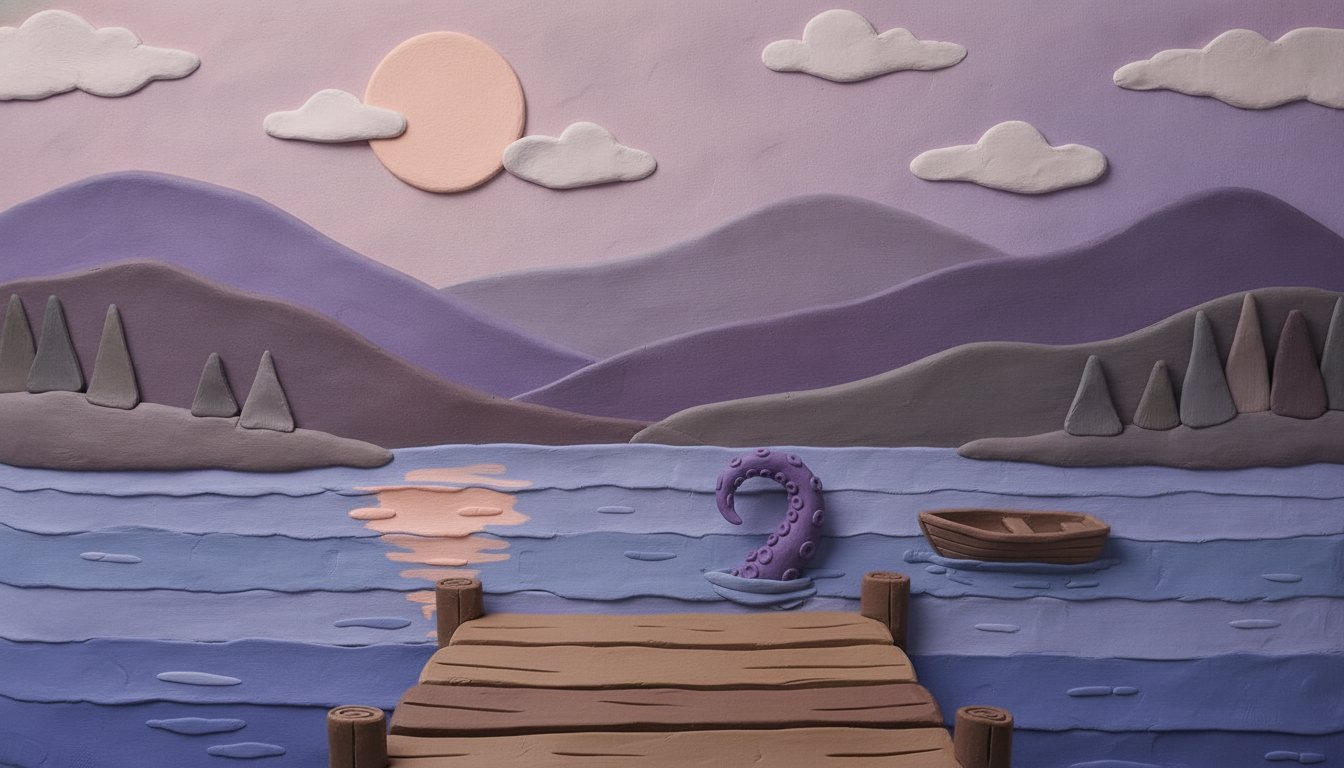
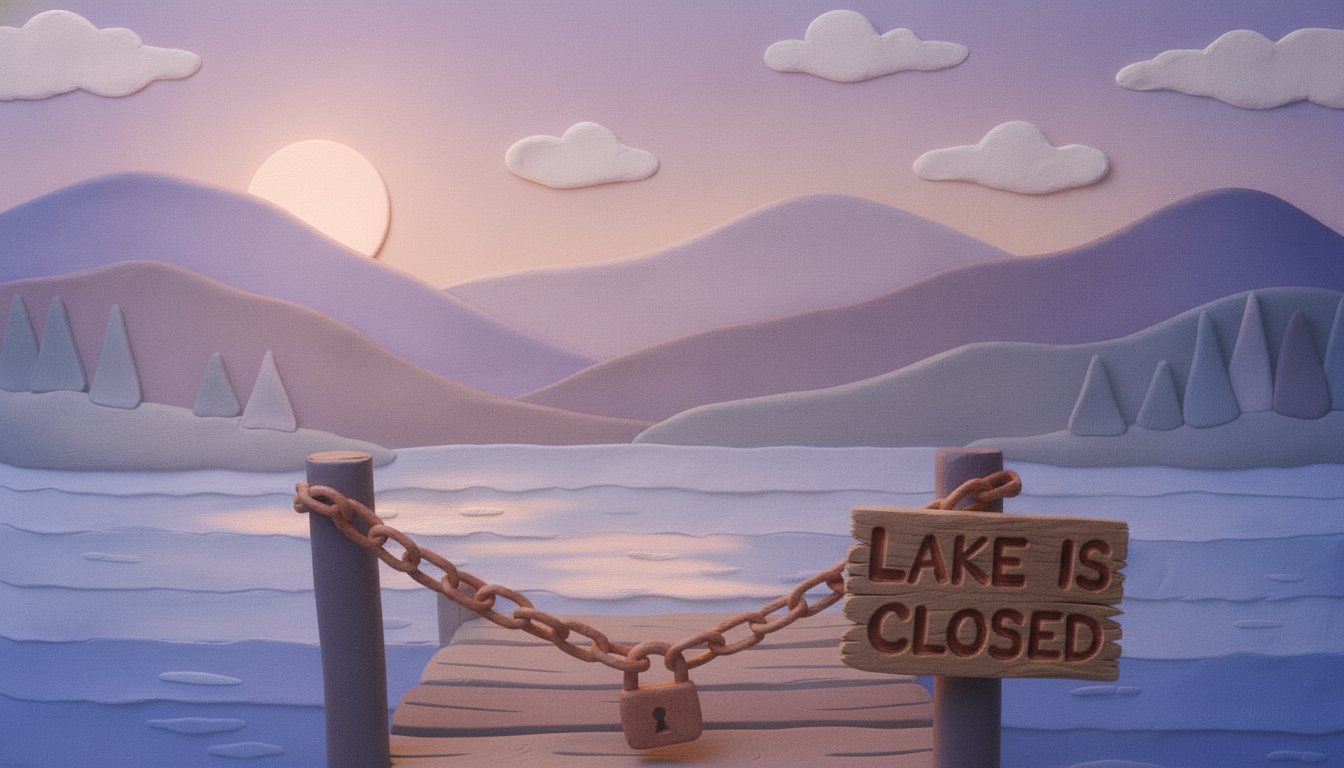
Dock: lake is closed sign and chain, tentacle removed, countdown to Aug 13 2027
Claude-Session: https://claude.ai/code/session_017UCt1yh6wM11RSMuh2VTku

diff --git a/site/world/index.html b/site/world/index.html
@@ -117,9 +117,6 @@ button{font:inherit;color:inherit}
 @media (min-width:900px) and (min-aspect-ratio:4/3){.hint{display:none}}
 @media (prefers-reduced-motion:reduce){.scene,.scene.on{transition:opacity .3s}.scene.zoom{transform:none}.hot .ring,.fog{animation:none}}
 </style>
-</head>
-<body>
-
 
 <div class="bar">
   <img src="img/title.png" alt="Claysons" width="720" height="198">
@@ -157,10 +154,10 @@ button{font:inherit;color:inherit}
     </section>
 
     <section class="scene" id="s-dock" data-crumb="The dock" data-back="inside">
-      <img class="bg" id="dockImg" src="img/dock-night.jpg" alt="Layered clay lake view from the dock: stacked mountains, puffy clay clouds, a tentacle rising from the water beside a rowboat" width="1344" height="768">
+      <img class="bg" id="dockImg" src="img/dock-night.jpg" alt="Layered clay lake view from the dock: stacked mountains, puffy clay clouds, the dock chained shut with a padlock and a clay sign reading LAKE IS CLOSED" width="1344" height="768">
       <div class="clock" id="dockClock" aria-live="polite"></div>
       <div class="fog"></div>
-      <button class="hot" style="left:57.5%;top:58%;--glow:#9fc6ff" data-card="dock" aria-label="Look out over the lake"><span class="ring"></span><span class="tag">Look out</span></button>
+      <button class="hot" style="left:74%;top:60%;--glow:#9fc6ff" data-card="dock" aria-label="Read the sign"><span class="ring"></span><span class="tag">Read the sign</span></button>
     </section>
 
   </div>
@@ -204,7 +201,9 @@ button{font:inherit;color:inherit}
 <div class="card off" id="c-dock" role="dialog" aria-labelledby="dh" style="--glow:#9fc6ff">
   <div class="eyebrow">The dock</div>
   <h2 id="dh">The lake is very still tonight</h2>
-  <p id="dockP">The moon is up, and 1,300 Claysons are somewhere out in the trees. Something out past the rowboat keeps breaking the surface.</p>
+  <p id="dockP"></p>
+  <p id="dockLore" style="margin-top:.6em">The lake is closed. The Clayson is out for the holidays, and the chain keeps him from slipping back to his rest. After the holidays he sinks to the bottom, and he won&rsquo;t surface again until Friday, August 13, 2027.</p>
+  <p id="dockCount" class="eyebrow" style="margin-top:.6em"></p>
   <div class="row">
     <a class="btn red" href="https://opensea.io/collection/claysons" target="_blank" rel="noopener" style="text-decoration:none">See the Claysons</a>
     <a class="btn" href="https://www.instagram.com/georgexmeta/" target="_blank" rel="noopener" style="text-decoration:none">@georgexmeta</a>
@@ -320,10 +319,10 @@ button{font:inherit;color:inherit}
   }
   function fmt(m){ m=Math.round(m); var h=Math.floor(m/60)%24, mm=m%60, ap=h<12?'AM':'PM', h12=h%12||12; return h12+':'+String(mm).padStart(2,'0')+' '+ap }
   var DOCK_TEXT={
-    dawn:['The sun is coming up over the lake','First light on the water. The fog is lifting, and 1,300 Claysons are waking up somewhere in the trees.'],
-    day:['Bright day on the lake','The water is calm and the sun is high. Something out past the rowboat keeps breaking the surface anyway.'],
-    dusk:['The sun is going down','The sky is burning out behind the mountains. Whatever lives in this lake likes the dark.'],
-    night:['The lake is very still tonight','The moon is up, and 1,300 Claysons are somewhere out in the trees. Something out past the rowboat keeps breaking the surface.']
+    dawn:['The sun is coming up over the lake','First light on the water. The fog is lifting, and the chain across the dock is wet with dew.'],
+    day:['Bright day on the lake','The water is calm and the sun is high. Nobody swims here. The padlock makes sure of it.'],
+    dusk:['The sun is going down','The sky is burning out behind the mountains. Somewhere under that water is the bed he can\u2019t get back to.'],
+    night:['The lake is very still tonight','The moon is up, the dock is chained, and 1,300 Claysons are somewhere out in the trees.']
   };
   function dockPhase(){
     var d=new Date(), now=d.getHours()*60+d.getMinutes(), t=sunTimes(d), ph;
@@ -336,12 +335,11 @@ button{font:inherit;color:inherit}
     var after=now>=t.set, before=now<t.rise;
     $('dockClock').innerHTML=fmt(now)+'<small>'+(before?'Sunrise at '+fmt(t.rise):after?'Sun set at '+fmt(t.set):'Sunset at '+fmt(t.set))+'</small>';
     $('dh').textContent=DOCK_TEXT[ph][0]; $('dockP').textContent=DOCK_TEXT[ph][1];
+    var days=Math.ceil((new Date(2027,7,13)-d)/864e5);
+    $('dockCount').textContent=days>1?'He surfaces in '+days+' days':days===1?'He surfaces tomorrow':'He has surfaced';
   }
   dockPhase(); setInterval(dockPhase,60000);
 
   show(location.hash.slice(1)||'exterior');
 })();
 </script>
-
-</body>
-</html>

diff --git a/site/world/page.html b/site/world/page.html
@@ -149,10 +149,10 @@ button{font:inherit;color:inherit}
     </section>
 
     <section class="scene" id="s-dock" data-crumb="The dock" data-back="inside">
-      <img class="bg" id="dockImg" src="img/dock-night.jpg" alt="Layered clay lake view from the dock: stacked mountains, puffy clay clouds, a tentacle rising from the water beside a rowboat" width="1344" height="768">
+      <img class="bg" id="dockImg" src="img/dock-night.jpg" alt="Layered clay lake view from the dock: stacked mountains, puffy clay clouds, the dock chained shut with a padlock and a clay sign reading LAKE IS CLOSED" width="1344" height="768">
       <div class="clock" id="dockClock" aria-live="polite"></div>
       <div class="fog"></div>
-      <button class="hot" style="left:57.5%;top:58%;--glow:#9fc6ff" data-card="dock" aria-label="Look out over the lake"><span class="ring"></span><span class="tag">Look out</span></button>
+      <button class="hot" style="left:74%;top:60%;--glow:#9fc6ff" data-card="dock" aria-label="Read the sign"><span class="ring"></span><span class="tag">Read the sign</span></button>
     </section>
 
   </div>
@@ -196,7 +196,9 @@ button{font:inherit;color:inherit}
 <div class="card off" id="c-dock" role="dialog" aria-labelledby="dh" style="--glow:#9fc6ff">
   <div class="eyebrow">The dock</div>
   <h2 id="dh">The lake is very still tonight</h2>
-  <p id="dockP">The moon is up, and 1,300 Claysons are somewhere out in the trees. Something out past the rowboat keeps breaking the surface.</p>
+  <p id="dockP"></p>
+  <p id="dockLore" style="margin-top:.6em">The lake is closed. The Clayson is out for the holidays, and the chain keeps him from slipping back to his rest. After the holidays he sinks to the bottom, and he won&rsquo;t surface again until Friday, August 13, 2027.</p>
+  <p id="dockCount" class="eyebrow" style="margin-top:.6em"></p>
   <div class="row">
     <a class="btn red" href="https://opensea.io/collection/claysons" target="_blank" rel="noopener" style="text-decoration:none">See the Claysons</a>
     <a class="btn" href="https://www.instagram.com/georgexmeta/" target="_blank" rel="noopener" style="text-decoration:none">@georgexmeta</a>
@@ -312,10 +314,10 @@ button{font:inherit;color:inherit}
   }
   function fmt(m){ m=Math.round(m); var h=Math.floor(m/60)%24, mm=m%60, ap=h<12?'AM':'PM', h12=h%12||12; return h12+':'+String(mm).padStart(2,'0')+' '+ap }
   var DOCK_TEXT={
-    dawn:['The sun is coming up over the lake','First light on the water. The fog is lifting, and 1,300 Claysons are waking up somewhere in the trees.'],
-    day:['Bright day on the lake','The water is calm and the sun is high. Something out past the rowboat keeps breaking the surface anyway.'],
-    dusk:['The sun is going down','The sky is burning out behind the mountains. Whatever lives in this lake likes the dark.'],
-    night:['The lake is very still tonight','The moon is up, and 1,300 Claysons are somewhere out in the trees. Something out past the rowboat keeps breaking the surface.']
+    dawn:['The sun is coming up over the lake','First light on the water. The fog is lifting, and the chain across the dock is wet with dew.'],
+    day:['Bright day on the lake','The water is calm and the sun is high. Nobody swims here. The padlock makes sure of it.'],
+    dusk:['The sun is going down','The sky is burning out behind the mountains. Somewhere under that water is the bed he can\u2019t get back to.'],
+    night:['The lake is very still tonight','The moon is up, the dock is chained, and 1,300 Claysons are somewhere out in the trees.']
   };
   function dockPhase(){
     var d=new Date(), now=d.getHours()*60+d.getMinutes(), t=sunTimes(d), ph;
@@ -328,6 +330,8 @@ button{font:inherit;color:inherit}
     var after=now>=t.set, before=now<t.rise;
     $('dockClock').innerHTML=fmt(now)+'<small>'+(before?'Sunrise at '+fmt(t.rise):after?'Sun set at '+fmt(t.set):'Sunset at '+fmt(t.set))+'</small>';
     $('dh').textContent=DOCK_TEXT[ph][0]; $('dockP').textContent=DOCK_TEXT[ph][1];
+    var days=Math.ceil((new Date(2027,7,13)-d)/864e5);
+    $('dockCount').textContent=days>1?'He surfaces in '+days+' days':days===1?'He surfaces tomorrow':'He has surfaced';
   }
   dockPhase(); setInterval(dockPhase,60000);
 

diff --git a/site/tools/gen_dock_times.py b/site/tools/gen_dock_times.py
@@ -18,12 +18,16 @@ PHASES = {
  "moonfix": "keep it night exactly as it is. Change ONLY the moon: make it a flat, matte pressed-plasticine disc like the little clay stars, "
             "pale cream clay with a few thumb-pressed craters and fingerprint texture, a soft raised edge and a small drop shadow on the sky layer. "
             "NO glow, NO halo, NO bloom, NO light rays around it. Keep the moonlight reflection on the water as clay dabs.",
+ "closed": "keep the time of day and lighting exactly as they are. Change ONLY this: REMOVE the purple tentacle completely (just calm clay water "
+           "there). At the end of the dock, a rusty clay chain hangs across between the two front posts with a padlock, and a crooked hand-made "
+           "wooden clay sign is nailed to the right post, with the words LAKE IS CLOSED pressed into it in big chunky clay capital letters, "
+           "spelled exactly L-A-K-E  I-S  C-L-O-S-E-D, nothing else written.",
  "dusk": "sunset dusk: a big orange-red clay sun half sunk behind the mountain layers, sky graded from deep violet at the top to hot "
          "orange and magenta near the mountains, mountains in dark silhouette layers, orange reflection on the water strips, no moon.",
 }
 def gen(src, phase, out):
     body = {"contents": [{"parts": [{"inline_data": {"mime_type": "image/jpeg", "data": base64.b64encode(open(src, "rb").read()).decode()}},
-                                    {"text": KEEP + PHASES[phase] + " No text, no letters, no logos."}]}],
+                                    {"text": KEEP + PHASES[phase] + ("" if phase=="closed" else " Keep the LAKE IS CLOSED sign and chain exactly as they are, same letters. No other text, no logos.")}]}],
             "generationConfig": {"responseModalities": ["IMAGE"], "imageConfig": {"aspectRatio": "16:9"}}}
     req = urllib.request.Request(URL, json.dumps(body).encode(), {"Content-Type": "application/json", "x-goog-api-key": "dummy"})
     r = json.load(urllib.request.urlopen(req, timeout=180))
